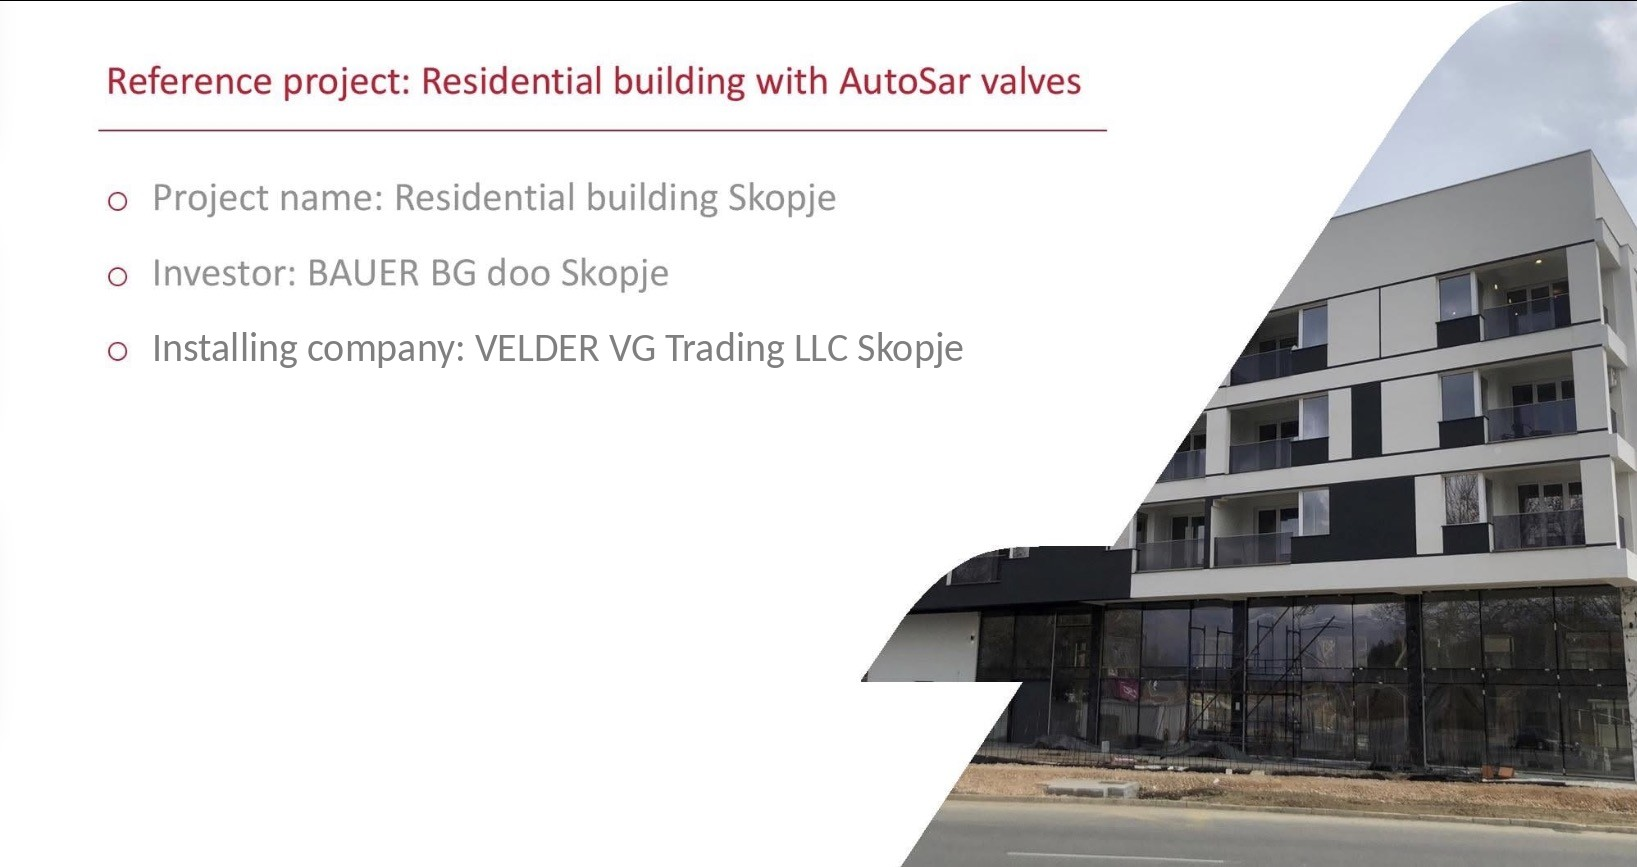
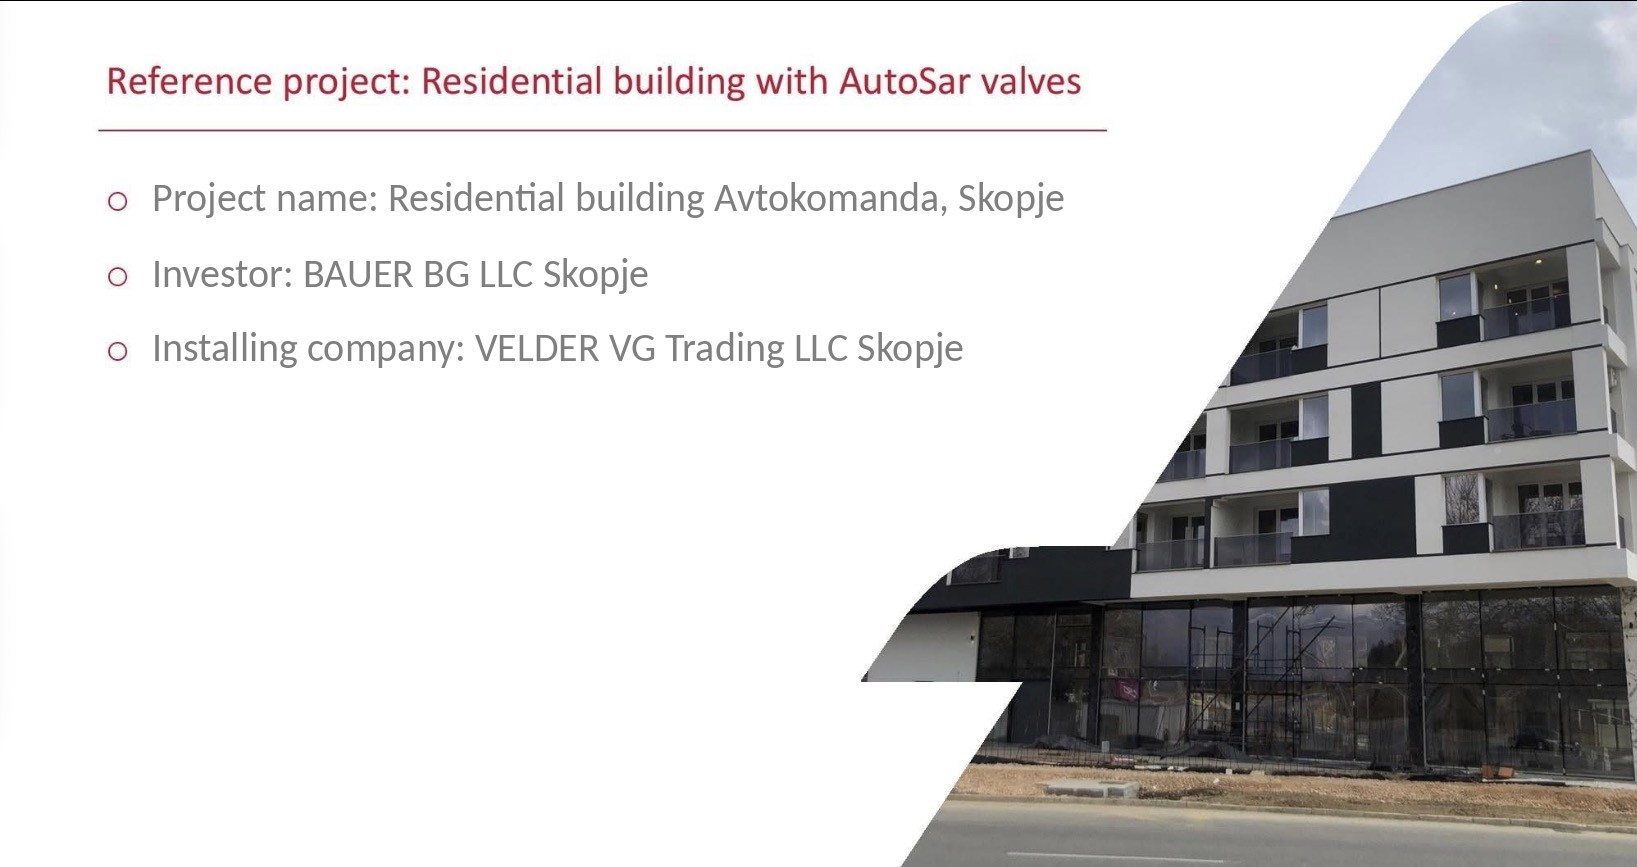
Add files via upload

Changed region(s): [[0.0935, 0.1869, 0.6542, 0.2491], [0.0935, 0.2803, 0.405, 0.3426]]

diff --git a/index.html b/index.html
@@ -96,6 +96,7 @@ header{background:rgba(5,8,17,.8);-webkit-backdrop-filter:blur(20px);backdrop-fi
 .mc-more:hover{background:var(--btn-hover)}
 .mc-more:hover::after{transform:translateX(3px)}
 .ref-link{display:block;border-radius:inherit}
+.page-text-content p.ref-meta{font-size:.95rem;color:var(--text-muted);margin-top:-8px}
 .page-text-content h3.ref-name{font-size:1.2rem;font-weight:600;color:#fff;margin:48px 0 10px}
 .page-gallery{display:flex;flex-direction:column;gap:56px;margin:40px 0}
 .page-gallery .media-card{margin:0}
@@ -315,12 +316,14 @@ mk: {
 "about-p4":"Вашиот објект заслужува изведба со која ќе бидете спокојни во годините што доаѓаат.",
 "ref-title":"Референци",
 "ref-intro":"Дел од објектите во кои ги изведовме инсталациите.",
-"ref1-title":"Објект во Аеродром, Скопје",
+"ref1-title":"Објект Аеродром, Скопје",
 "ref1-desc":"Изведба на систем за топловодно греење.",
-"ref2-title":"Станбена зграда, Скопје",
+"ref2-title":"Објект Автокоманда, Скопје",
 "ref2-desc":"Изведба на топловодно радијаторско греење со вентили Comap Auto-Sar за автоматска регулација на протокот низ системот.",
+"ref1-meta":"Инвеститор: Бауер БГ ДООЕЛ  ·  Изведувач: Велдер ВГ Трејдинг",
+"ref2-meta":"Инвеститор: Бауер БГ ДООЕЛ  ·  Изведувач: Велдер ВГ Трејдинг",
 "ref1-img-alt":"Објект во изградба во Аеродром, Скопје",
-"ref2-img-alt":"Референтен проект: станбена зграда во Скопје со вентили Auto-Sar",
+"ref2-img-alt":"Референтен проект: станбена зграда Автокоманда, Скопје, со вентили Auto-Sar",
 
 "topli-title":"Централно топловодно греење",
 "topli-p1":"Централното топловодно греење е еден од најраспространетите и најсигурните системи за греење на станбени, деловни и индустриски објекти. Опремата за прецизно хидраулично балансирање и регулација овозможува ефикасно и економично користење.",
@@ -472,12 +475,14 @@ en: {
 "about-p4":"Your building deserves an installation that gives you peace of mind for the years ahead.",
 "ref-title":"References",
 "ref-intro":"A selection of buildings where we carried out the installations.",
-"ref1-title":"Building in Aerodrom, Skopje",
+"ref1-title":"Aerodrom Building, Skopje",
 "ref1-desc":"Installation of a hot-water heating system.",
-"ref2-title":"Residential building, Skopje",
+"ref2-title":"Avtokomanda Building, Skopje",
 "ref2-desc":"Installation of hot-water radiator heating with Comap Auto-Sar valves for automatic flow control throughout the system.",
+"ref1-meta":"Investor: BAUER BG LLC  ·  Installing company: VELDER VG Trading",
+"ref2-meta":"Investor: BAUER BG LLC  ·  Installing company: VELDER VG Trading",
 "ref1-img-alt":"Building under construction in Aerodrom, Skopje",
-"ref2-img-alt":"Reference project: residential building in Skopje with Auto-Sar valves",
+"ref2-img-alt":"Reference project: residential building Avtokomanda, Skopje, with Auto-Sar valves",
 
 "topli-title":"Central Hot-Water Heating",
 "topli-p1":"Central hot-water heating is one of the most widespread and reliable heating systems for residential, commercial and industrial buildings. Equipment for precise hydraulic balancing and control enables efficient and economical operation.",
@@ -1081,7 +1086,7 @@ const REFS = [
 function refsHtml() {
   let h = '<h2 class="reveal" data-i18n="ref-title"></h2><p class="reveal" data-i18n="ref-intro"></p>';
   REFS.forEach(r => {
-    h += `<h3 class="ref-name reveal" data-i18n="${r.k}-title"></h3><p class="reveal" data-i18n="${r.k}-desc"></p><div class="page-gallery">`;
+    h += `<h3 class="ref-name reveal" data-i18n="${r.k}-title"></h3><p class="reveal" data-i18n="${r.k}-desc"></p><p class="ref-meta reveal" data-i18n="${r.k}-meta"></p><div class="page-gallery">`;
     r.imgs.forEach(([mk, en]) => {
       const lang = en ? ` data-src-mk="${mk}" data-src-en="${en}"` : '';
       h += `<figure class="media-card"><a class="ref-link" href="${mk}" target="_blank" rel="noopener"><img src="${mk}"${lang} alt="" data-i18n-alt="${r.k}-img-alt" loading="lazy"></a></figure>`;
